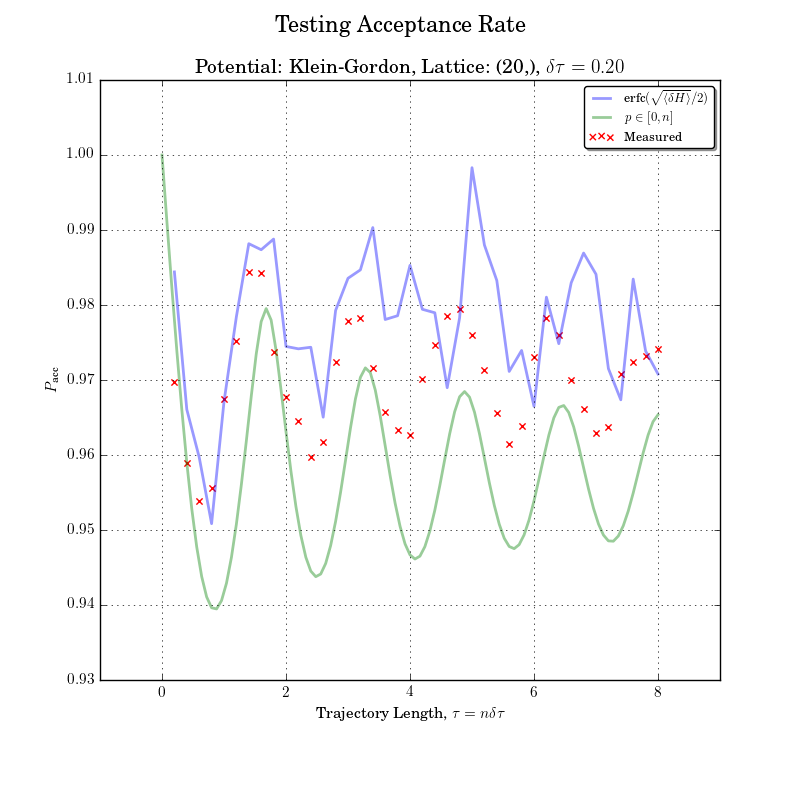
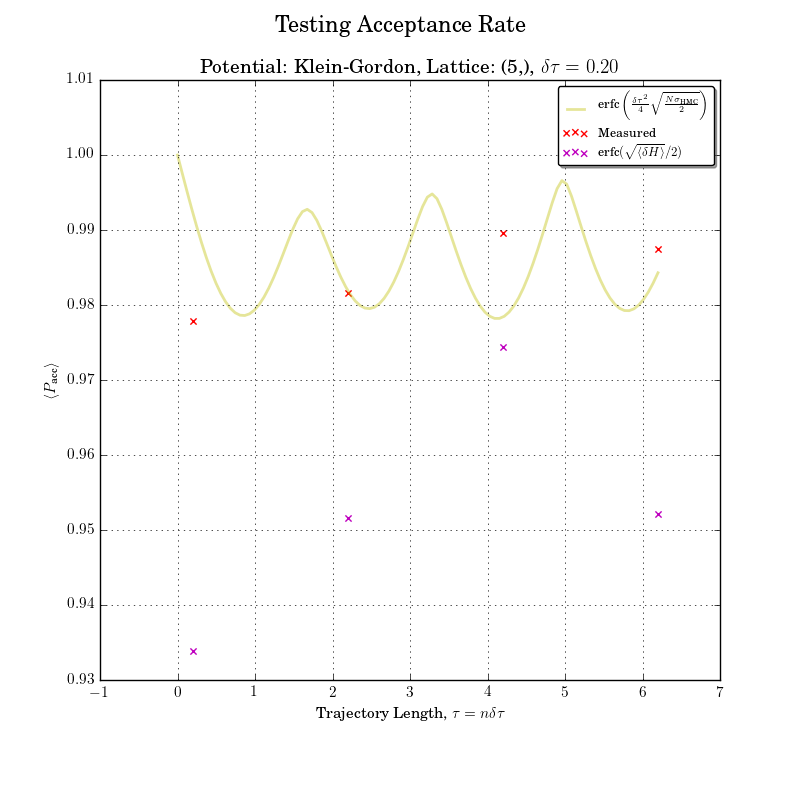
plot bugs ironed out - seems to be legit! issue:#32

diff --git a/results/common/acceptance.py b/results/common/acceptance.py
@@ -2,6 +2,8 @@
 import numpy as np
 from scipy.special import j0, jn, erfc
 import matplotlib.pyplot as plt
+from matplotlib import colors
+import random
 
 from utils import saveOrDisplay, prll_map
 from models import Basic_HMC as Model
@@ -66,14 +68,13 @@ def probHMC1dFree(tau, dtau, m, lattice_p=np.array([])):
         sigma = .125*(a**2*(1. - np.cos(2.*tau*np.sqrt(a)))).mean()
     return erfc(.25*dtau**2*np.sqrt(.5*n*sigma))
 
-def plot(n_rng, prob, theories, subtitle, save):
+def plot(scats, lines, subtitle, save):
     """Reproduces figure 1 from [1]
        
     
     Required Inputs
-        n_rng           :: np.array :: trajectory lengths
-        prob            :: np.array :: acc. probs
-        theory          :: np.array :: theoretical acc. probs
+        lines           :: {label:(x,y)} :: plots (x,y) as a line with label=label
+        scats           :: {label:(x,y)} :: plots (x,y) as a scatter with label=label
         subtitle        :: str      :: the subtitle to put in ax[0].set_title()
         save            :: bool :: True saves the plot, False prints to the screen
     """
@@ -92,13 +93,15 @@ def plot(n_rng, prob, theories, subtitle, save):
     ax[-1].set_xlabel(r'Trajectory Length, $\tau=n\delta\tau$')
     
     ### add the lines to the plots
-    ax[0].set_ylabel(r'$P_{\text{acc}}$')
-    ax[0].scatter(n_rng, prob, marker='x', color='red', label=r'Measured')
+    ax[0].set_ylabel(r'$\langle P_{\text{acc}} \rangle$')
     
-    for label, theory in theories.iteritems():
-        x,y = theory
-        ax[0].plot(x, y, linestyle='-', linewidth=2., alpha=0.4, 
-            label=label)
+    clist = [i for i in colors.ColorConverter.colors if i != 'w']
+    colour = (i for i in random.sample(clist, len(clist)))
+    for label, line in lines.iteritems():
+        ax[0].plot(*line, linestyle='-', color = next(colour), linewidth=2., alpha=0.4, label=label)
+    
+    for label, scat in scats.iteritems():
+        ax[0].scatter(*scat, marker='o', label=label, color = next(colour))
     
     ### place legends
     ax[0].legend(loc='best', shadow=True, fontsize = pp.ipfont, fancybox=True)
@@ -109,7 +112,7 @@ def plot(n_rng, prob, theories, subtitle, save):
     pp.save_or_show(save, PLOT_LOC)
     pass
 #
-def main(x0, file_name, n_rng, n_samples=1000, n_burn_in=25, save = False, step_size=0.2):
+def main(x0, file_name, n_rng, n_samples = 1000, n_burn_in = 25, step_size = 0.2, save = False):
     """A wrapper function
     
     Required Inputs
@@ -124,13 +127,17 @@ def main(x0, file_name, n_rng, n_samples=1000, n_burn_in=25, save = False, step_
         step_size       :: int      :: Leap Frog step size
     """
     pot = KG(m=0.)
+    lines = {}
+    scats = {}
     
     print 'Running Model: {}'.format(file_name)
+    f = np.vectorize(lambda t: probHMC1dFree(t, step_size, 0, np.arange(1, x0.size+1)))
+    x_fine = np.linspace(0, n_rng[-1]*step_size,101, True)
+    theory1 = f(x_fine)
     
-    f = np.vectorize(lambda t: probHMC1dFree(t, step_size, 0, np.asarray(n_rng)))
-    x = np.linspace(0, n_rng[-1]*step_size,101, True)
-    theory1 = f(x)
-    theories = {r'$p \in [0,n]$': (x, theory1)}
+    label = r'$\text{erfc}\left(\frac{\delta \tau^2}{4}' \
+        + r' \sqrt{\frac{N \sigma_{\text{HMC}}}{2}}\right)$'
+    lines[label] =  (x_fine, theory1)
     
     def coreFunc(n_steps):
         """function for multiprocessing support"""
@@ -166,16 +173,16 @@ def main(x0, file_name, n_rng, n_samples=1000, n_burn_in=25, save = False, step_
     
     prob, theory3 = zip(*ans)
     
-    x2 = np.asarray(n_rng)*step_size
+    x = np.asarray(n_rng)*step_size
     # theories[r'$p_{HMC}$'] = (x2, theory2)
-    theories[r'$\text{erfc}(\sqrt{\langle \delta H \rangle}/2)$'] = (x2, theory3)
+    scats[r'$\text{erfc}(\sqrt{\langle \delta H \rangle}/2)$'] = (x, theory3)
+    scats[r'Measured'] = (x, prob)
     
     # one long subtitle - long as can't mix LaTeX and .format()
     subtitle = '\centering Potential: {}, Lattice: {}'.format(pot.name, x0.shape) \
         + r', $\delta\tau = ' + '{:4.2f}$'.format(step_size)
     
-    plot(n_rng*step_size, prob,
-        theories = theories,
+    plot(lines = lines, scats = scats,
         subtitle = subtitle,
         save = saveOrDisplay(save, file_name),
         )

diff --git a/results/acceptance_hmc1dfree.py b/results/acceptance_hmc1dfree.py
@@ -10,8 +10,6 @@ file_name = __file__
 n, dim = 20, 1
 x0 = np.random.random((n,)*dim)
 
-step_size = .2
-
 if __name__ == '__main__':
     lengths = np.arange(1, 41, 1)
-    acceptance.main(x0, file_name, lengths, save = True)
+    acceptance.main(x0, file_name, lengths, step_size = .2, save = True)
